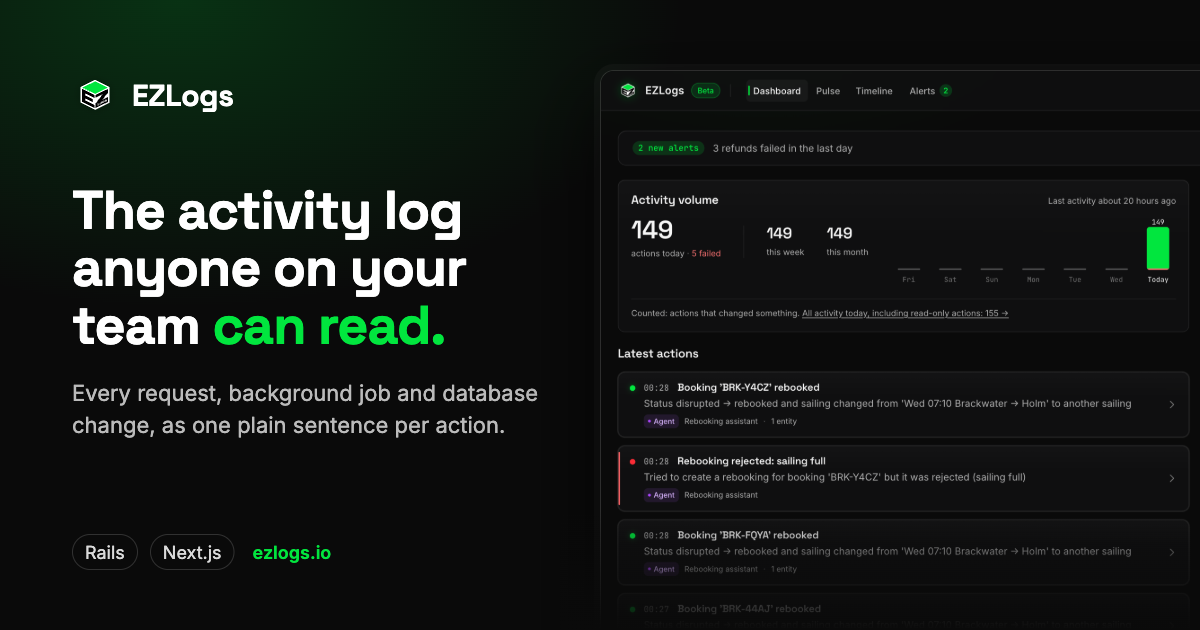
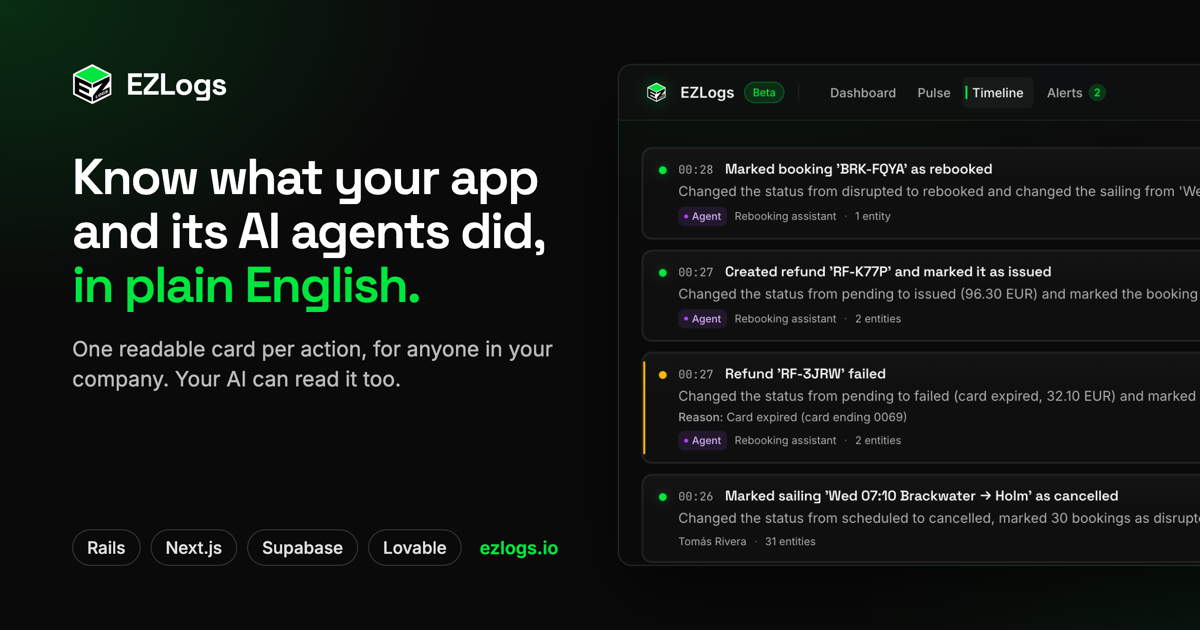
site: publish 2026-11-26 10:29 UTC

diff --git a/index.html b/index.html
@@ -45,18 +45,18 @@
   <meta property="og:title" content="Know what your app and its AI agents did, in plain English.">
   <meta property="og:description" content="What happens in your Rails, Next.js or Supabase app (including Lovable, Bolt and v0), turned into one readable card per action. Built from real events, not written by AI. Read-only. Free during beta.">
   <meta property="og:url" content="https://ezlogs.io/">
-  <meta property="og:image" content="https://ezlogs.io/assets/og-image.png">
+  <meta property="og:image" content="https://ezlogs.io/assets/og-image.png?v=20261126">
   <meta property="og:image:width" content="1200">
   <meta property="og:image:height" content="630">
-  <meta property="og:image:alt" content="EZLogs: the activity log anyone on your team can read. Every action in your app as one plain sentence, beside the EZLogs dashboard.">
+  <meta property="og:image:alt" content="EZLogs: know what your app and its AI agents did, in plain English. One readable card per action, for anyone in your company, beside four real cards from the EZLogs timeline: an AI agent rebooking and refunding, a refund that failed with its reason, and a person cancelling a sailing.">
   <meta property="og:locale" content="en_US">
 
   <!-- Twitter Card -->
   <meta name="twitter:card" content="summary_large_image">
   <meta name="twitter:title" content="Know what your app and its AI agents did, in plain English.">
   <meta name="twitter:description" content="What happens in your Rails, Next.js or Supabase app, turned into one readable card per action. Read-only. Free during beta.">
-  <meta name="twitter:image" content="https://ezlogs.io/assets/og-image.png">
-  <meta name="twitter:image:alt" content="EZLogs: the activity log anyone on your team can read. Every action in your app as one plain sentence, beside the EZLogs dashboard.">
+  <meta name="twitter:image" content="https://ezlogs.io/assets/og-image.png?v=20261126">
+  <meta name="twitter:image:alt" content="EZLogs: know what your app and its AI agents did, in plain English. One readable card per action, for anyone in your company, beside four real cards from the EZLogs timeline: an AI agent rebooking and refunding, a refund that failed with its reason, and a person cancelling a sailing.">
 
   <!-- Structured data (JSON-LD) -->
   <script type="application/ld+json">
@@ -110,7 +110,7 @@
     "operatingSystem": "Web",
     "description": "Activity log for Rails, Next.js and Supabase apps, including apps built with Lovable, Bolt and v0. Captures requests, background jobs, database changes, sign-ins and the calls that fail for users, and turns each action into one plain-English card, built from real events without AI. Read-only by design; AI assistants can query it over MCP.",
     "url": "https://ezlogs.io/",
-    "image": "https://ezlogs.io/assets/og-image.png",
+    "image": "https://ezlogs.io/assets/og-image.png?v=20261126",
     "offers": {"@type":"Offer","name":"Beta","price":"0","priceCurrency":"EUR","description":"Free during beta. No card required.","url":"https://app.ezlogs.io/users/sign_up"}
   }
   </script>

diff --git a/nextjs/index.html b/nextjs/index.html
@@ -19,7 +19,7 @@
   <meta property="og:title" content="Activity logs for Next.js &mdash; App Router, Server Actions, Postgres.">
   <meta property="og:description" content="Captures routes, Server Actions, database changes and background jobs, and turns each customer or agent action into a plain-English card your whole team can read.">
   <meta property="og:url" content="https://ezlogs.io/nextjs/">
-  <meta property="og:image" content="https://ezlogs.io/assets/og-image.png">
+  <meta property="og:image" content="https://ezlogs.io/assets/og-image.png?v=20261126">
 
   <link rel="preconnect" href="https://fonts.googleapis.com">
   <link rel="preconnect" href="https://fonts.gstatic.com" crossorigin>

diff --git a/rails/index.html b/rails/index.html
@@ -19,7 +19,7 @@
   <meta property="og:title" content="Activity logs for Rails &mdash; plain English, zero per-controller code.">
   <meta property="og:description" content="Captures every HTTP request, Sidekiq job, and ActiveRecord change. Turns each customer action into a plain-English card your whole team can read.">
   <meta property="og:url" content="https://ezlogs.io/rails/">
-  <meta property="og:image" content="https://ezlogs.io/assets/og-image.png">
+  <meta property="og:image" content="https://ezlogs.io/assets/og-image.png?v=20261126">
 
   <link rel="preconnect" href="https://fonts.googleapis.com">
   <link rel="preconnect" href="https://fonts.gstatic.com" crossorigin>

diff --git a/mcp/index.html b/mcp/index.html
@@ -18,7 +18,7 @@
   <meta property="og:title" content="Ask Claude, ChatGPT or Cursor what happened in your app">
   <meta property="og:description" content="The EZLogs MCP server gives your AI assistant read-only access to your app's activity log: requests, jobs and database changes as plain-English actions.">
   <meta property="og:url" content="https://ezlogs.io/mcp/">
-  <meta property="og:image" content="https://ezlogs.io/assets/og-image.png">
+  <meta property="og:image" content="https://ezlogs.io/assets/og-image.png?v=20261126">
 
   <link rel="preconnect" href="https://fonts.googleapis.com">
   <link rel="preconnect" href="https://fonts.gstatic.com" crossorigin>

diff --git a/nextjs-activity-log/index.html b/nextjs-activity-log/index.html
@@ -18,7 +18,7 @@
   <meta property="og:title" content="Activity log or audit log for Next.js: your options">
   <meta property="og:description" content="A homemade audit table, Postgres triggers, PostHog, Sentry, WorkOS Audit Logs or EZLogs: what each records and when to pick it.">
   <meta property="og:url" content="https://ezlogs.io/nextjs-activity-log/">
-  <meta property="og:image" content="https://ezlogs.io/assets/og-image.png">
+  <meta property="og:image" content="https://ezlogs.io/assets/og-image.png?v=20261126">
 
   <link rel="preconnect" href="https://fonts.googleapis.com">
   <link rel="preconnect" href="https://fonts.gstatic.com" crossorigin>

diff --git a/supabase/index.html b/supabase/index.html
@@ -19,7 +19,7 @@
   <meta property="og:title" content="A Supabase activity log anyone on your team can read.">
   <meta property="og:description" content="Row changes, sign-ups, sign-ins and files, with who did each one, as plain-English actions. One SQL migration, open source, read-only.">
   <meta property="og:url" content="https://ezlogs.io/supabase/">
-  <meta property="og:image" content="https://ezlogs.io/assets/og-image.png">
+  <meta property="og:image" content="https://ezlogs.io/assets/og-image.png?v=20261126">
 
   <link rel="preconnect" href="https://fonts.googleapis.com">
   <link rel="preconnect" href="https://fonts.gstatic.com" crossorigin>

diff --git a/ai-agent-activity-log/index.html b/ai-agent-activity-log/index.html
@@ -19,7 +19,7 @@
   <meta property="og:title" content="The activity log for AI work inside your app.">
   <meta property="og:description" content="See what your AI agents actually did, in plain English, with citations. Plus an MCP server so your AI can query its own history.">
   <meta property="og:url" content="https://ezlogs.io/ai-agent-activity-log/">
-  <meta property="og:image" content="https://ezlogs.io/assets/og-image.png">
+  <meta property="og:image" content="https://ezlogs.io/assets/og-image.png?v=20261126">
 
   <link rel="preconnect" href="https://fonts.googleapis.com">
   <link rel="preconnect" href="https://fonts.gstatic.com" crossorigin>

diff --git a/rails-activity-log/index.html b/rails-activity-log/index.html
@@ -18,7 +18,7 @@
   <meta property="og:title" content="Activity log or audit log for Rails: which gem?">
   <meta property="og:description" content="PaperTrail, Audited, public_activity, Ahoy and EZLogs compared: what each records and when to pick it.">
   <meta property="og:url" content="https://ezlogs.io/rails-activity-log/">
-  <meta property="og:image" content="https://ezlogs.io/assets/og-image.png">
+  <meta property="og:image" content="https://ezlogs.io/assets/og-image.png?v=20261126">
 
   <link rel="preconnect" href="https://fonts.googleapis.com">
   <link rel="preconnect" href="https://fonts.gstatic.com" crossorigin>

diff --git a/blog/index.html b/blog/index.html
@@ -18,7 +18,7 @@
   <meta property="og:title" content="EZLogs blog">
   <meta property="og:description" content="Notes on building the activity log for Rails and Next.js apps anyone on your team can read.">
   <meta property="og:url" content="https://ezlogs.io/blog/">
-  <meta property="og:image" content="https://ezlogs.io/assets/og-image.png">
+  <meta property="og:image" content="https://ezlogs.io/assets/og-image.png?v=20261126">
 
   <link rel="preconnect" href="https://fonts.googleapis.com">
   <link rel="preconnect" href="https://fonts.gstatic.com" crossorigin>
